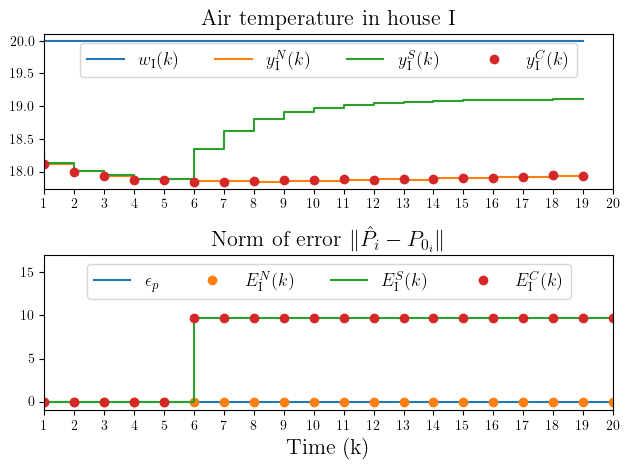
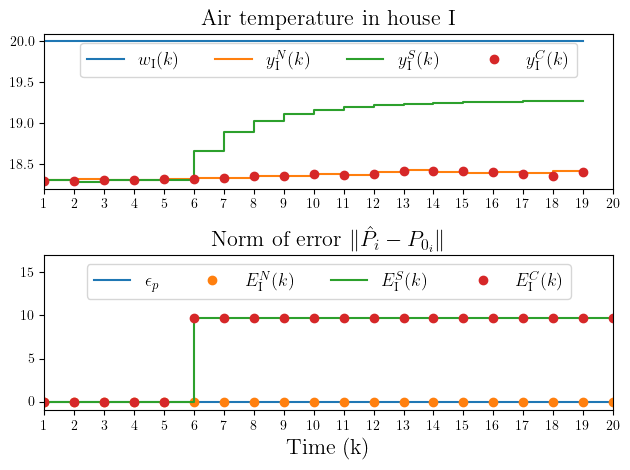
update data

diff --git a/data/resilient_ineq/table_costs_all_rooms_error.tex b/data/resilient_ineq/table_costs_all_rooms_error.tex
@@ -1,5 +1,5 @@
-I & $ 299.5 $ & $ 190.8 $ ($ -40.0 $)& $ 301.0 $ ($ 0.0 $)\\
-II & $ 192.4 $ & $ 234.1 $ ($ 20.0 $)& $ 191.4 $ ($ -0.0 $)\\
-III & $ 305.9 $ & $ 359.1 $ ($ 20.0 $)& $ 305.9 $ ($ -0.0 $)\\
-IV & $ 297.5 $ & $ 349.9 $ ($ 20.0 $)& $ 297.2 $ ($ -0.0 $)\\
-Global & $ 1095.3 $ & $ 1133.9 $ ($ 0.0 $)& $ 1095.5 $ ($ 0.0 $)
+I & $ 18009.8 $ & $ 10749.6 $ ($ -40.3 $)& $ 18009.7 $ ($ -0.0 $)\\
+II & $ 14719.4 $ & $ 20070.2 $ ($ 36.4 $)& $ 14719.4 $ ($ 0.0 $)\\
+III & $ 12943.1 $ & $ 17751.6 $ ($ 37.2 $)& $ 12943.1 $ ($ 0.0 $)\\
+IV & $ 12351.3 $ & $ 16911.8 $ ($ 36.9 $)& $ 12351.3 $ ($ 0.0 $)\\
+Global & $ 58023.6 $ & $ 65483.2 $ ($ 12.9 $)& $ 58023.6 $ ($ -0.0 $)
